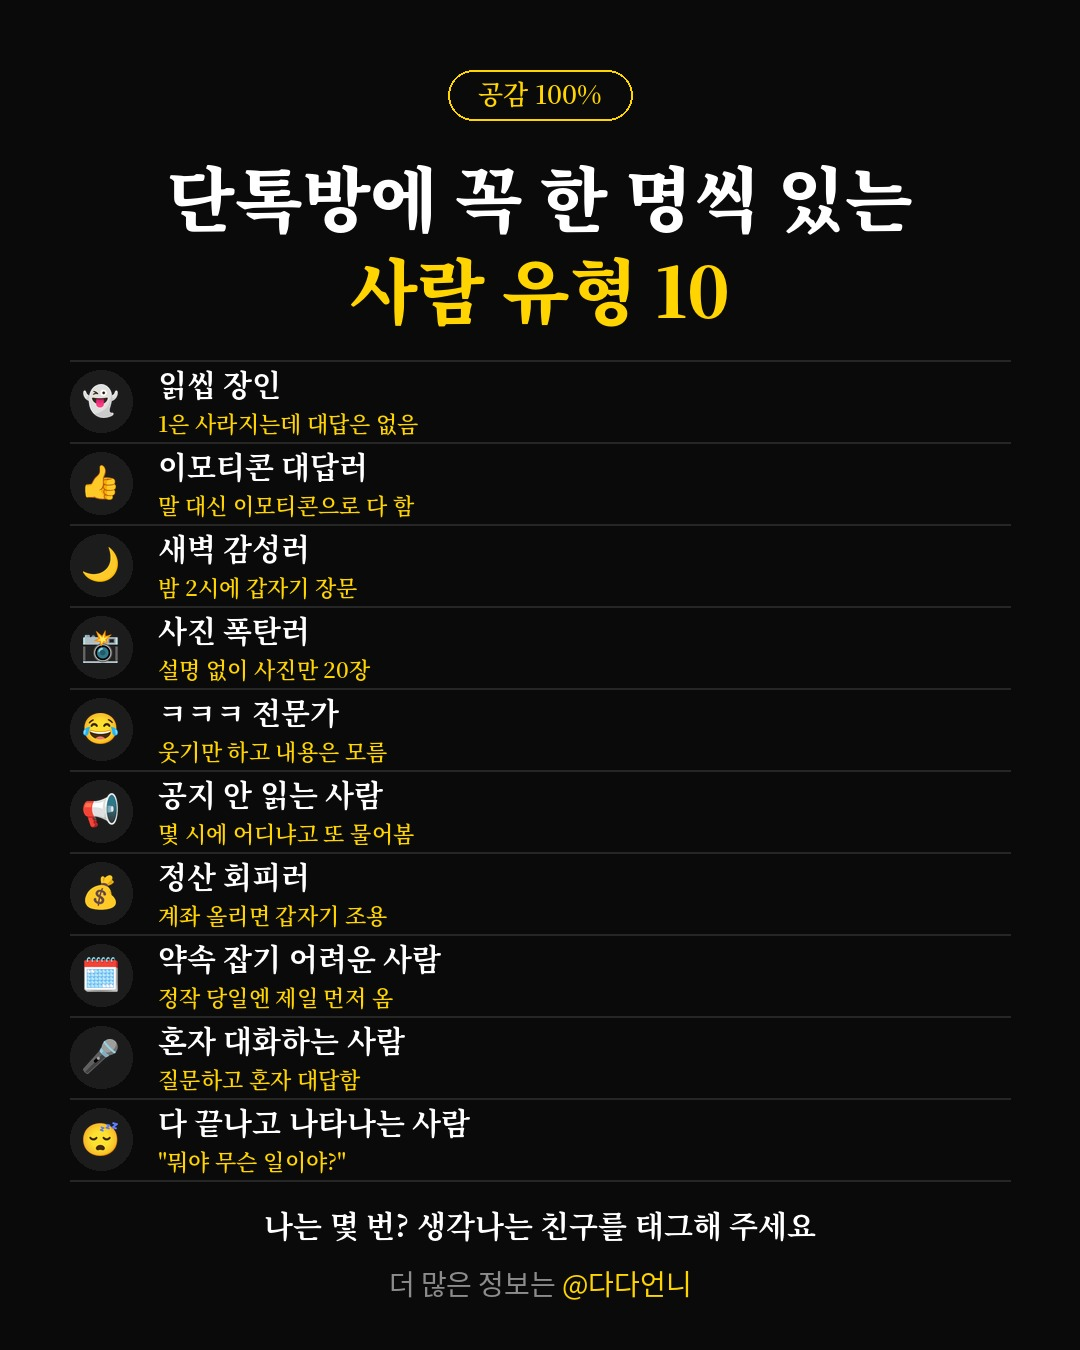
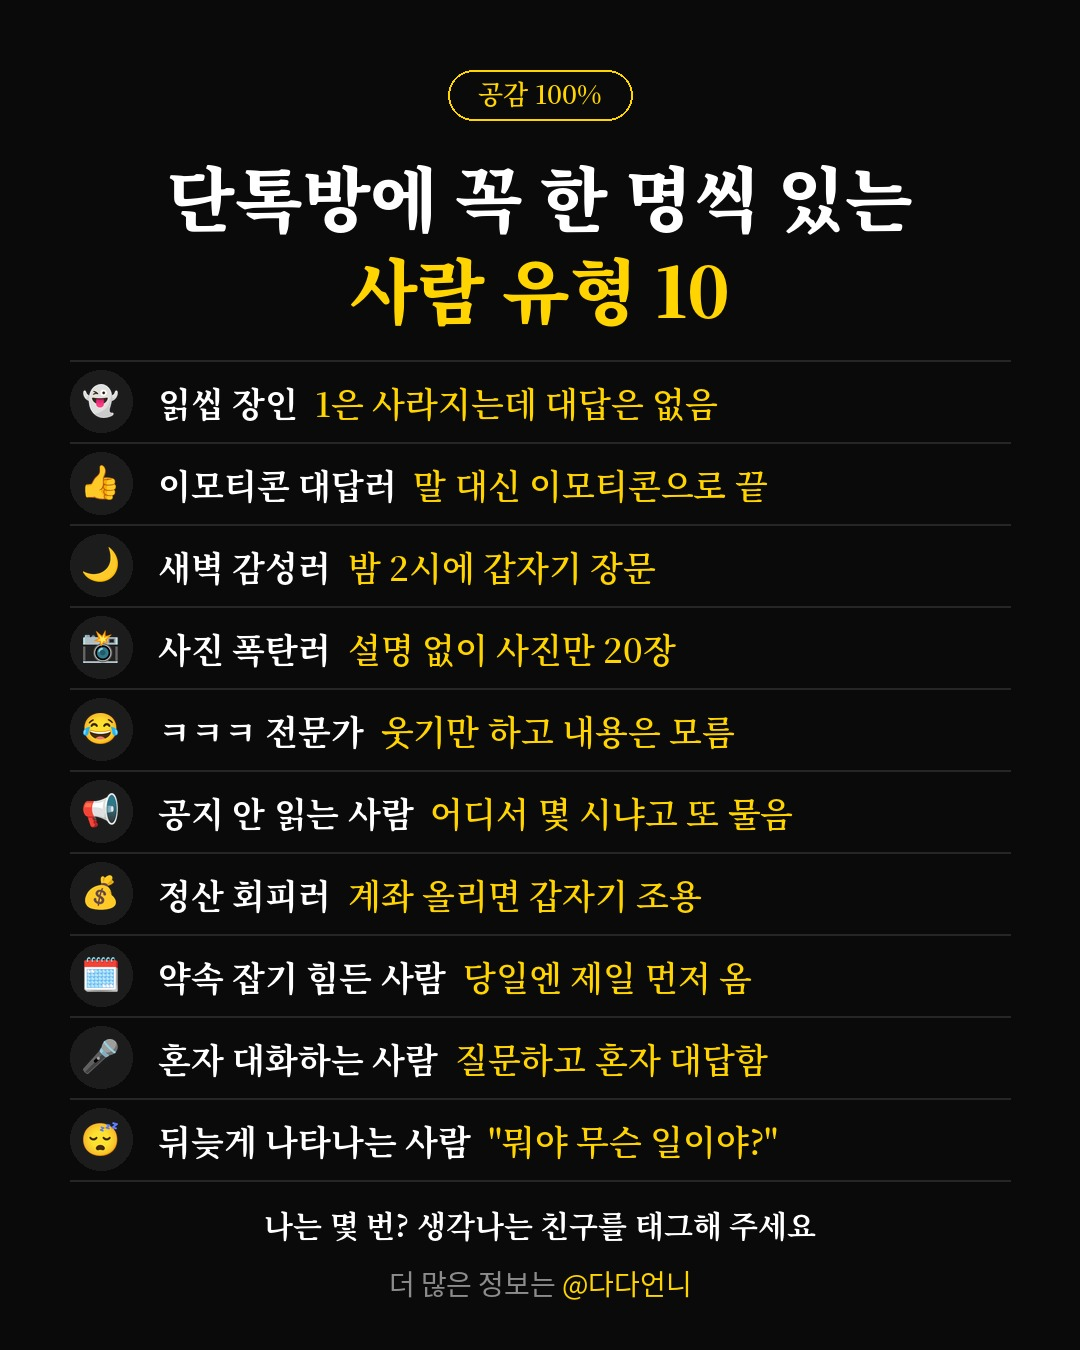
dada: oneline mode, 11/16 16 one-line rows

Changed region(s): [[0.1528, 0.28, 0.7333, 0.8711], [0.4278, 0.7778, 0.7028, 0.8089], [0.4583, 0.84, 0.7028, 0.8711]]

diff --git a/tools/dada_gen.py b/tools/dada_gen.py
@@ -107,6 +107,13 @@ def page(data, rows, pno, ptotal, first, last):
     lf_s = int(min(40, RH * 0.37)); sf_s = int(min(30, RH * 0.27)); vf_s = int(min(46, RH * 0.42))
     subc = YEL if data.get("sub_color", "gray") == "yellow" else GRAY
     d.line([(M, top), (W - M, top)], fill=LINE, width=2)
+    if data.get("oneline"):
+        cr0 = 34 if big else 31
+        mw = W - M - (M + 2 * cr0 + 26)
+        s1 = int(min(38, RH * 0.42))
+        while s1 > 24 and any(d.textlength(r["label"] + "  ", font=serif("Bold", s1)) + d.textlength(r.get("sub", ""), font=serif("SemiBold", s1)) > mw for r in rows):
+            s1 -= 1
+        data["_s1"] = s1
     for i, r in enumerate(rows):
         y = top + i * RH; cy = y + RH / 2
         cr = 34 if big else 31
@@ -123,6 +130,18 @@ def page(data, rows, pno, ptotal, first, last):
             d.text((W - M - vw, cy - vf.size * 0.68), r["value"], font=vf, fill=YEL)
             vw += 24
         maxw = W - M - tx - vw
+        if data.get("oneline") and r.get("sub"):
+            # 한 줄 배치: 흰 label + 노란/회색 sub
+            sep = "  "
+            s0 = data["_s1"]
+            lf1, sf1 = serif("Bold", s0), serif("SemiBold", s0)
+            if d.textlength(r["label"] + sep, font=lf1) + d.textlength(r["sub"], font=sf1) > maxw:
+                overflow.append(r["label"] + " " + r["sub"])
+            ly = cy - s0 * 0.72
+            d.text((tx, ly), r["label"] + sep, font=lf1, fill=WHITE)
+            d.text((tx + d.textlength(r["label"] + sep, font=lf1), ly), r["sub"], font=sf1, fill=subc)
+            d.line([(M, y + RH), (W - M, y + RH)], fill=LINE, width=2)
+            continue
         lf = fit(d, r["label"], lambda s: serif("Bold", s), lf_s, maxw, 26)
         if r.get("sub"):
             sf = fit(d, r["sub"], lambda s: serif("SemiBold", s), sf_s, maxw, 21)
